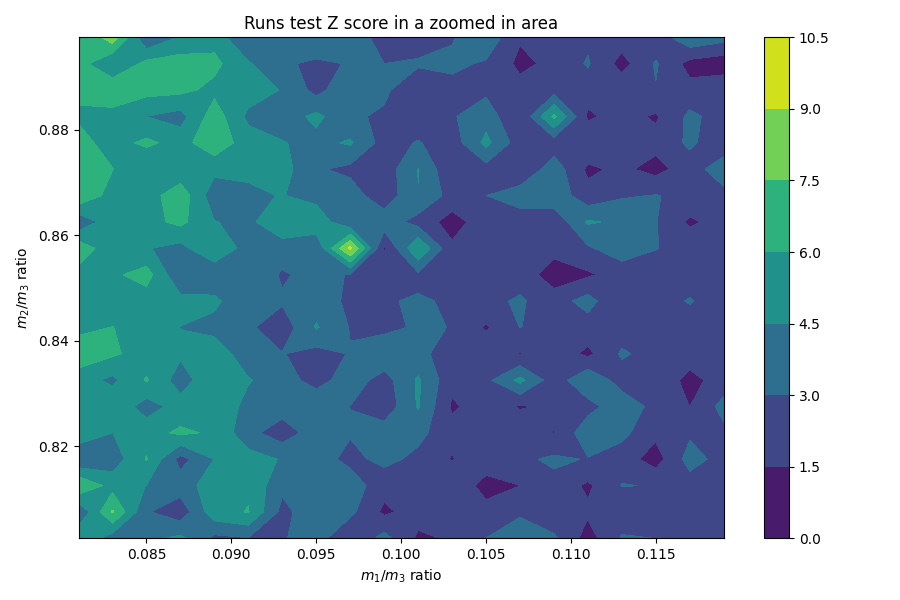
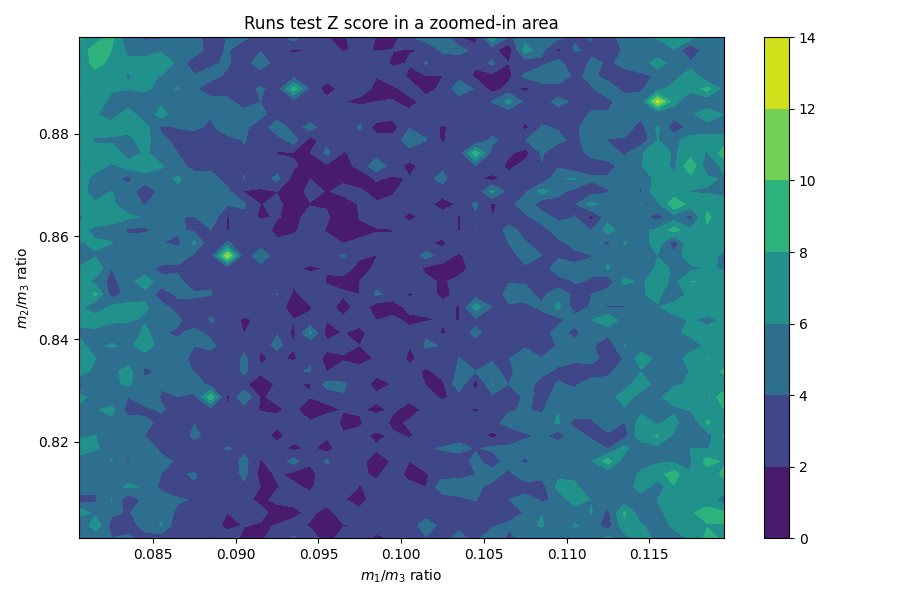
Almost finalized plots.

diff --git a/3particle_momentum_analysis.py b/3particle_momentum_analysis.py
@@ -1,7 +1,7 @@
 import matplotlib.pyplot as plt
 from decimal import Decimal as D
 
-for i in range(1):
+for i in range(10):
     f = open('Experiments/3_particles/random' + str(i))
     times = []
     momenta = [[], [], []]
@@ -17,23 +17,27 @@ for i in range(1):
         vs = line.split('|')[2].split(' ')
 
         for j in range(3):
-            velocities[j].append(vs[j])
-            momenta[j].append(D(vs[j]) * masses[j])
+            velocities[j].append(float(vs[j]))
+            momenta[j].append(float(D(vs[j]) * masses[j]))
 
     f.close()
 
-    fig, ax = plt.subplots(2, 1, figsize=(10, 10))
-    ax[0].set_title('Momentum probability distributions')
-    ax[0].hist(x=momenta[0], color='blue', bins=500, histtype='step', weights=times, density=True)
-    ax[0].hist(x=momenta[1], color='red', bins=500, histtype='step', weights=times, density=True)
-    ax[0].hist(x=momenta[2], color='green', bins=500, histtype='step', weights=times, density=True)
-    ax[0].legend(labels=["Particle 0", "Particle 1", "Particle 2"])
-
-    ax[1].set_title('Velocity probability distributions')
-    ax[1].hist(x=velocities[0], color='blue', bins=500, histtype='step', weights=times, density=True)
-    ax[1].hist(x=velocities[1], color='red', bins=500, histtype='step', weights=times, density=True)
-    ax[1].hist(x=velocities[2], color='green', bins=500, histtype='step', weights=times, density=True)
-    ax[1].legend(labels=["Particle 0", "Particle 1", "Particle 2"])
+    fig, ax = plt.subplots(1, 1, figsize=(16, 8))
+    ax.set_title('Momentum and probability distributions overlayed together')
+    ax.hist(x=momenta[0], color='blue', bins=500, histtype='step', weights=times, density=True)
+    ax.hist(x=momenta[1], color='red', bins=500, histtype='step', weights=times, density=True)
+    ax.hist(x=momenta[2], color='green', bins=500, histtype='step', weights=times, density=True)
+    ax.hist(x=velocities[0], color='c', bins=500, histtype='step', weights=times, density=True)
+    ax.hist(x=velocities[1], color='m', bins=500, histtype='step', weights=times, density=True)
+    ax.hist(x=velocities[2], color='y', bins=500, histtype='step', weights=times, density=True)
+    ax.legend(labels=["$P(p_0)$, $m_0=$" + str(round(masses[0], 2)),
+                      "$P(p_1)$, $m_1=$" + str(round(masses[1], 2)),
+                      "$P(p_2)$, $m_2=$" + str(round(masses[2], 2)),
+                      "$P(v_0)$",
+                      "$P(v_1)$",
+                      "$P(v_2)$"])
+    ax.set_xlabel("Arbitrary units, either for velocity or for momentum")
+    ax.set_ylabel("Probability")
 
     plt.savefig('Plots/momenta_distributions/momentum__velocity_distribution' + str(i))
     plt.close()

diff --git a/2d_plot_scripts/runs_2d_zoomzoom.py b/2d_plot_scripts/runs_2d_zoomzoom.py
@@ -6,15 +6,15 @@ from simulation import *
 ratios13 = np.linspace(0.08, 0.12, 40)
 ratios23 = np.linspace(0.8, 0.9, 40)
 
-for i, ratio13 in enumerate(ratios13):
-    for j, ratio23 in enumerate(ratios23):
-        masses = np.array([ratio13, ratio23, 1])
-        for k in range(5):
-            vels = 2*np.random.random(2) - 1
-            vels = np.append(vels, (-masses[0]*vels[0] - masses[1]*vels[1])/masses[2])
-            experiment = Simulation(collisionNumber=10000, particleNumber=3, masses=masses, initVels=vels)
-            filename = 'Experiments/runs_2d_zoomzoom/index' + str(i) + '_' + str(j) + '_' + str(k)
-            experiment.run(shouldLog=['collideIndices'], filename=filename)
+#for i, ratio13 in enumerate(ratios13):
+#    for j, ratio23 in enumerate(ratios23):
+#        masses = np.array([ratio13, ratio23, 1])
+#        for k in range(10):
+#            vels = 2*np.random.random(2) - 1
+#            vels = np.append(vels, (-masses[0]*vels[0] - masses[1]*vels[1])/masses[2])
+#            experiment = Simulation(collisionNumber=10000, particleNumber=3, masses=masses, initVels=vels)
+#            filename = 'Experiments/runs_2d_zoomzoom/index' + str(i) + '_' + str(j) + '_' + str(k)
+#            experiment.run(shouldLog=['collideIndices'], filename=filename)
 
 Zs = []
 
@@ -29,12 +29,12 @@ for i in range(40):
                 column.append(abs(result))
         row.append(column)
     Zs.append(row)
-plotZs = [[np.mean(Zs[i][j]) for i in range(20)] for j in range(20)]
+plotZs = [[np.mean(Zs[i][j]) for i in range(40)] for j in range(40)]
 
 fig, axes = plt.subplots(1, 1, figsize=(9, 6))
 plot = axes.contourf(plotZs, extent=[0.08, 0.12, 0.8, 0.9], origin='lower')
 plt.colorbar(plot, ax=axes)
-axes.set_title('Runs test Z score in a zoomed in area')
+axes.set_title('Runs test Z score in a zoomed-in area')
 axes.set_xlabel('$m_1/m_3$ ratio')
 axes.set_ylabel('$m_2/m_3$ ratio')
 plt.tight_layout()

diff --git a/3_particle_random_analysis.py b/3_particle_random_analysis.py
@@ -24,8 +24,8 @@ def convert_to_timestep(filepath):
         for j in range(3):
             newPos = (prevPoss[j] + (i+1)*ts*prevVels[j]) % 1
             newPos = newPos + D('1') if newPos < 0 else newPos
-            positions[j].append(newPos)
-            velocities[j].append(prevVels[j])
+            positions[j].append(float(newPos))
+            velocities[j].append(float(prevVels[j]))
 
     leftTime = time % ts
 
@@ -38,16 +38,16 @@ def convert_to_timestep(filepath):
         for i in range(3): # Sort the weird time step
             newPos = (poss[i] + (ts - leftTime)*vels[i]) % 1
             newPos = newPos + D('1') if newPos < 0 else newPos
-            positions[i].append(newPos)
-            velocities[i].append(vels[i])
+            positions[i].append(float(newPos))
+            velocities[i].append(float(vels[i]))
         time = time - (ts - leftTime)
 
         for i in range(int(time // ts)):
             for j in range(3):
                 newPos = (poss[j] + (i+1)*ts*vels[j] + (ts - leftTime)*vels[j]) % 1
                 newPos = newPos + D('1') if newPos < 0 else newPos
-                positions[j].append(newPos)
-                velocities[j].append(vels[j])
+                positions[j].append(float(newPos))
+                velocities[j].append(float(vels[j]))
 
         leftTime = time % ts
     f.close()
@@ -57,7 +57,7 @@ def convert_to_timestep(filepath):
 for i in range(10):
     masses, positions, velocities = convert_to_timestep('Experiments/3_particles/random' + str(i))
 
-    fig, axes = plt.subplots(nrows=2, ncols=1, figsize=(12, 8))
+    fig, axes = plt.subplots(nrows=2, ncols=1, figsize=(12, 6))
 
     axes[0].set_title('Position probability distributions')
     axes[0].set_xlim(0, 1)

diff --git a/analytical_probability.py b/analytical_probability.py
@@ -1,0 +1,37 @@
+import matplotlib.pyplot as plt
+import numpy as np
+
+masses1 = np.linspace(0.1, 1, 100)
+masses2 = np.linspace(0.1, 1, 100)
+
+def probability(m1, m2, m3):
+    try:
+        K = 2/(1-m2/m1)
+        alpha = 1/(4*m2**2) - 1/(m1*m2) - 1/m2**2 \
+            - 1/(m1*m3) - 1/(m2*m3)
+        beta = 1/(2*m2) + 1/(2*m3)
+        gamma = 1/(np.sqrt(1/(2*m1) + 1/(8*m2) + 1/(8*m3)))
+        A = K/(K+1)
+        delta = 1 - A/(4*beta*m2)
+        theta = A/(2*beta)*gamma
+        C = theta/(np.sqrt(delta**2 - theta**2 * alpha/gamma**2))
+        return 1/2 - 1/np.pi * np.arcsin(C)
+    except ZeroDivisionError:
+        return 0
+
+probs = []
+for m1 in masses1:
+    row = []
+    for m2 in masses2:
+        row.append(probability(m1, m2, m3=1))
+    probs.append(row)
+
+fig, axes = plt.subplots(1, 1, figsize=(9, 6))
+plot = axes.contourf(probs, extent=[0,1,0,1], origin='lower')
+plt.colorbar(plot, ax=axes)
+axes.set_title('Analytical probability of special collision')
+axes.set_xlabel('$m_1/m_3$ ratio')
+axes.set_ylabel('$m_2/m_3$ ratio')
+plt.tight_layout()
+plt.savefig('analytical_prob')
+plt.close()

diff --git a/3_particle_random.py b/3_particle_random.py
@@ -13,6 +13,6 @@ for i in range(nSims):
     mass = np.random.random(3)
     vels = 2*np.random.random(2) - 1
     vels = np.append(vels, (-mass[0]*vels[0] - mass[1]*vels[1])/mass[2])
-    experiment = Simulation(collisionNumber=200000, particleNumber=3, masses=mass, initVels=vels)
+    experiment = Simulation(collisionNumber=400000, particleNumber=3, masses=mass, initVels=vels)
     filename = 'Experiments/3_particles/random' + str(i)
     experiment.run(shouldLog=['time', 'positions', 'velocities'], filename=filename)
